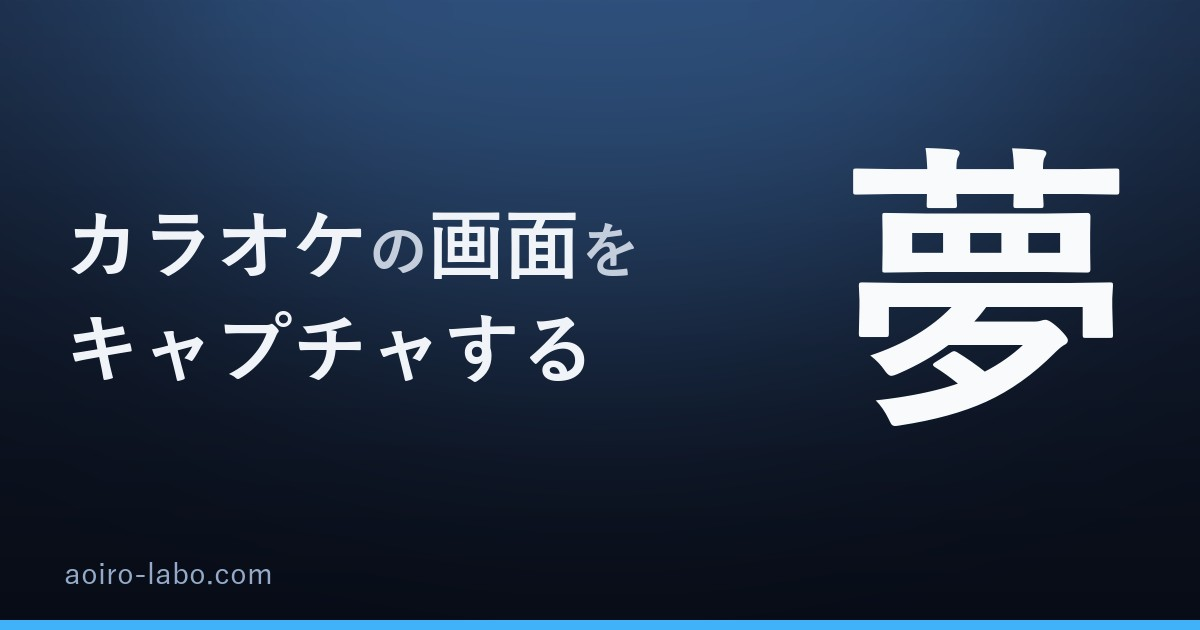
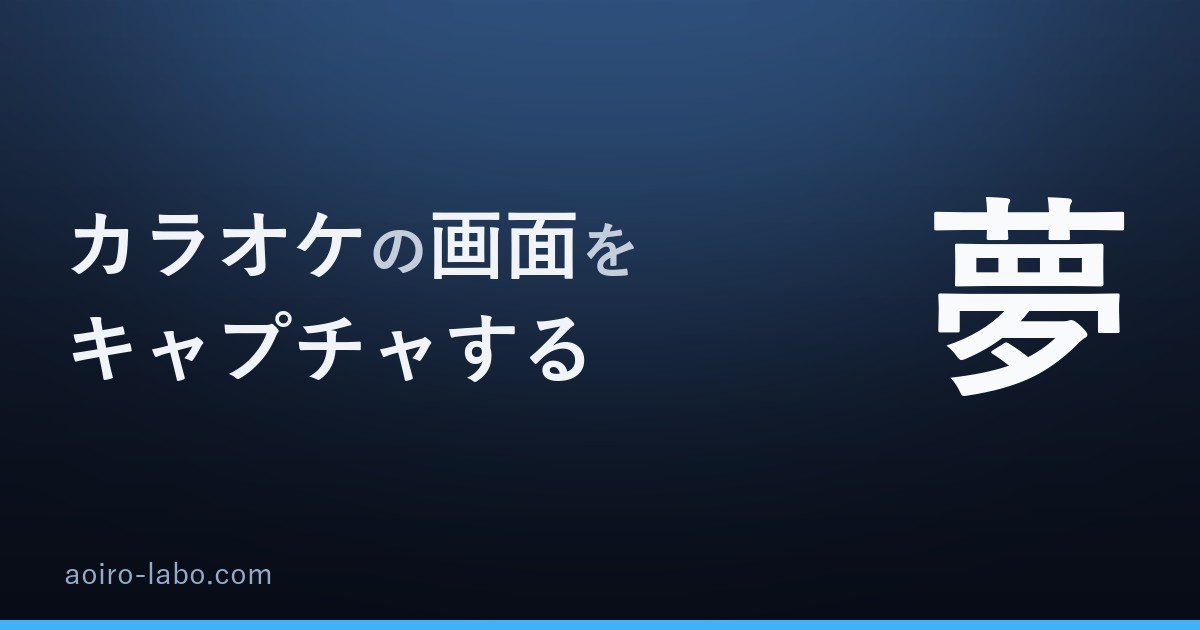
カバー：ゾーン配置で左右の高さを揃える

Changed region(s): [[0.7092, 0.2111, 0.9558, 0.6937]]

diff --git a/tools/generate_cover.py b/tools/generate_cover.py
@@ -474,14 +474,29 @@ def make(path, out, hero_override=None, emphasis_override=None):
             zone=True
             heights=line_heights(lines, size, acc)
             block_h=sum(heights)
+            kw_w_max = kw_w
+            # size the hero so its ink height matches the left text block height
+            _f100=ImageFont.truetype(BOLD, 100)
+            _bb=d.textbbox((0,0), hero, font=_f100)
+            _ratio=(_bb[3]-_bb[1])/100.0
+            ksize=max(60, int(block_h*0.96/_ratio))
+            while ksize>60:
+                kw_font=ImageFont.truetype(BOLD, ksize)
+                kw_w=d.textlength(hero, font=kw_font)
+                if kw_w <= kw_w_max: break
+                ksize-=8
+            kw_font=ImageFont.truetype(BOLD, ksize)
+            kw_w=d.textlength(hero, font=kw_font)
+            kw_bb=d.textbbox((0,0), hero, font=kw_font)
             total = cat_h + block_h + (30 if tags else 0) + chips_h
             y = (H - total)//2 - 14
             if cat:
                 d.text((MARGIN, y), cat, font=ImageFont.truetype(BOLD, 34), fill=acc); y += 34+30
             if bracket:
                 d.text((MARGIN, y), bracket, font=ImageFont.truetype(BOLD, 30), fill=SUBC); y += bracket_h
+            title_top = y
             draw_lines(d, items, lines, widths, MARGIN, y, size, acc, heights)
-            d.text((W-MARGIN-kw_w, y + block_h//2), hero, font=kw_font, fill=WHITE, anchor='lm')
+            d.text((W-MARGIN-kw_w, title_top - kw_bb[1]), hero, font=kw_font, fill=WHITE)
             y += block_h
             finish(d, img, cat, tags, acc, y, out)
             print('made (zone)', out, '| hero:', hero)
